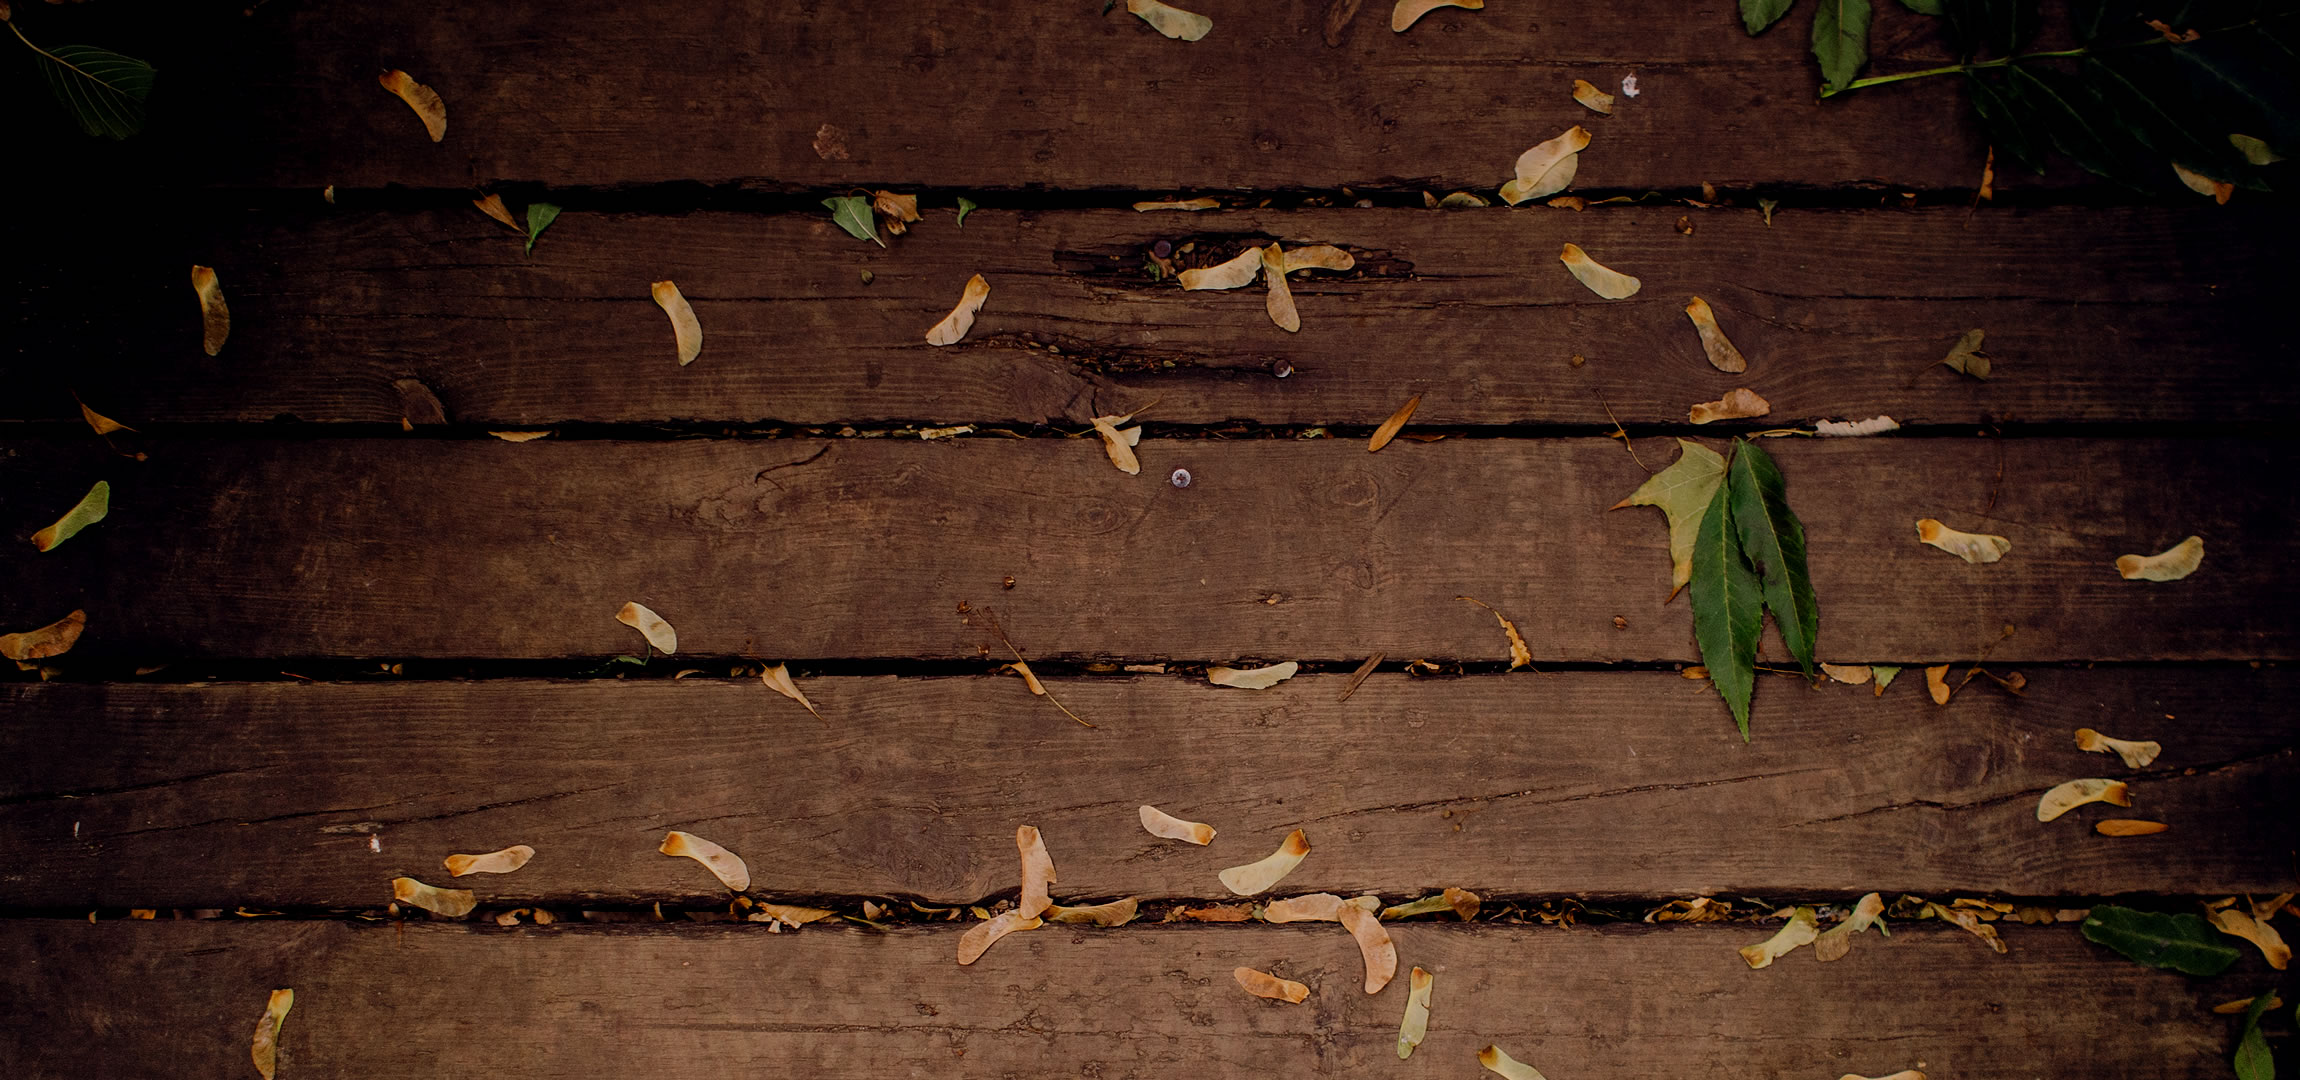
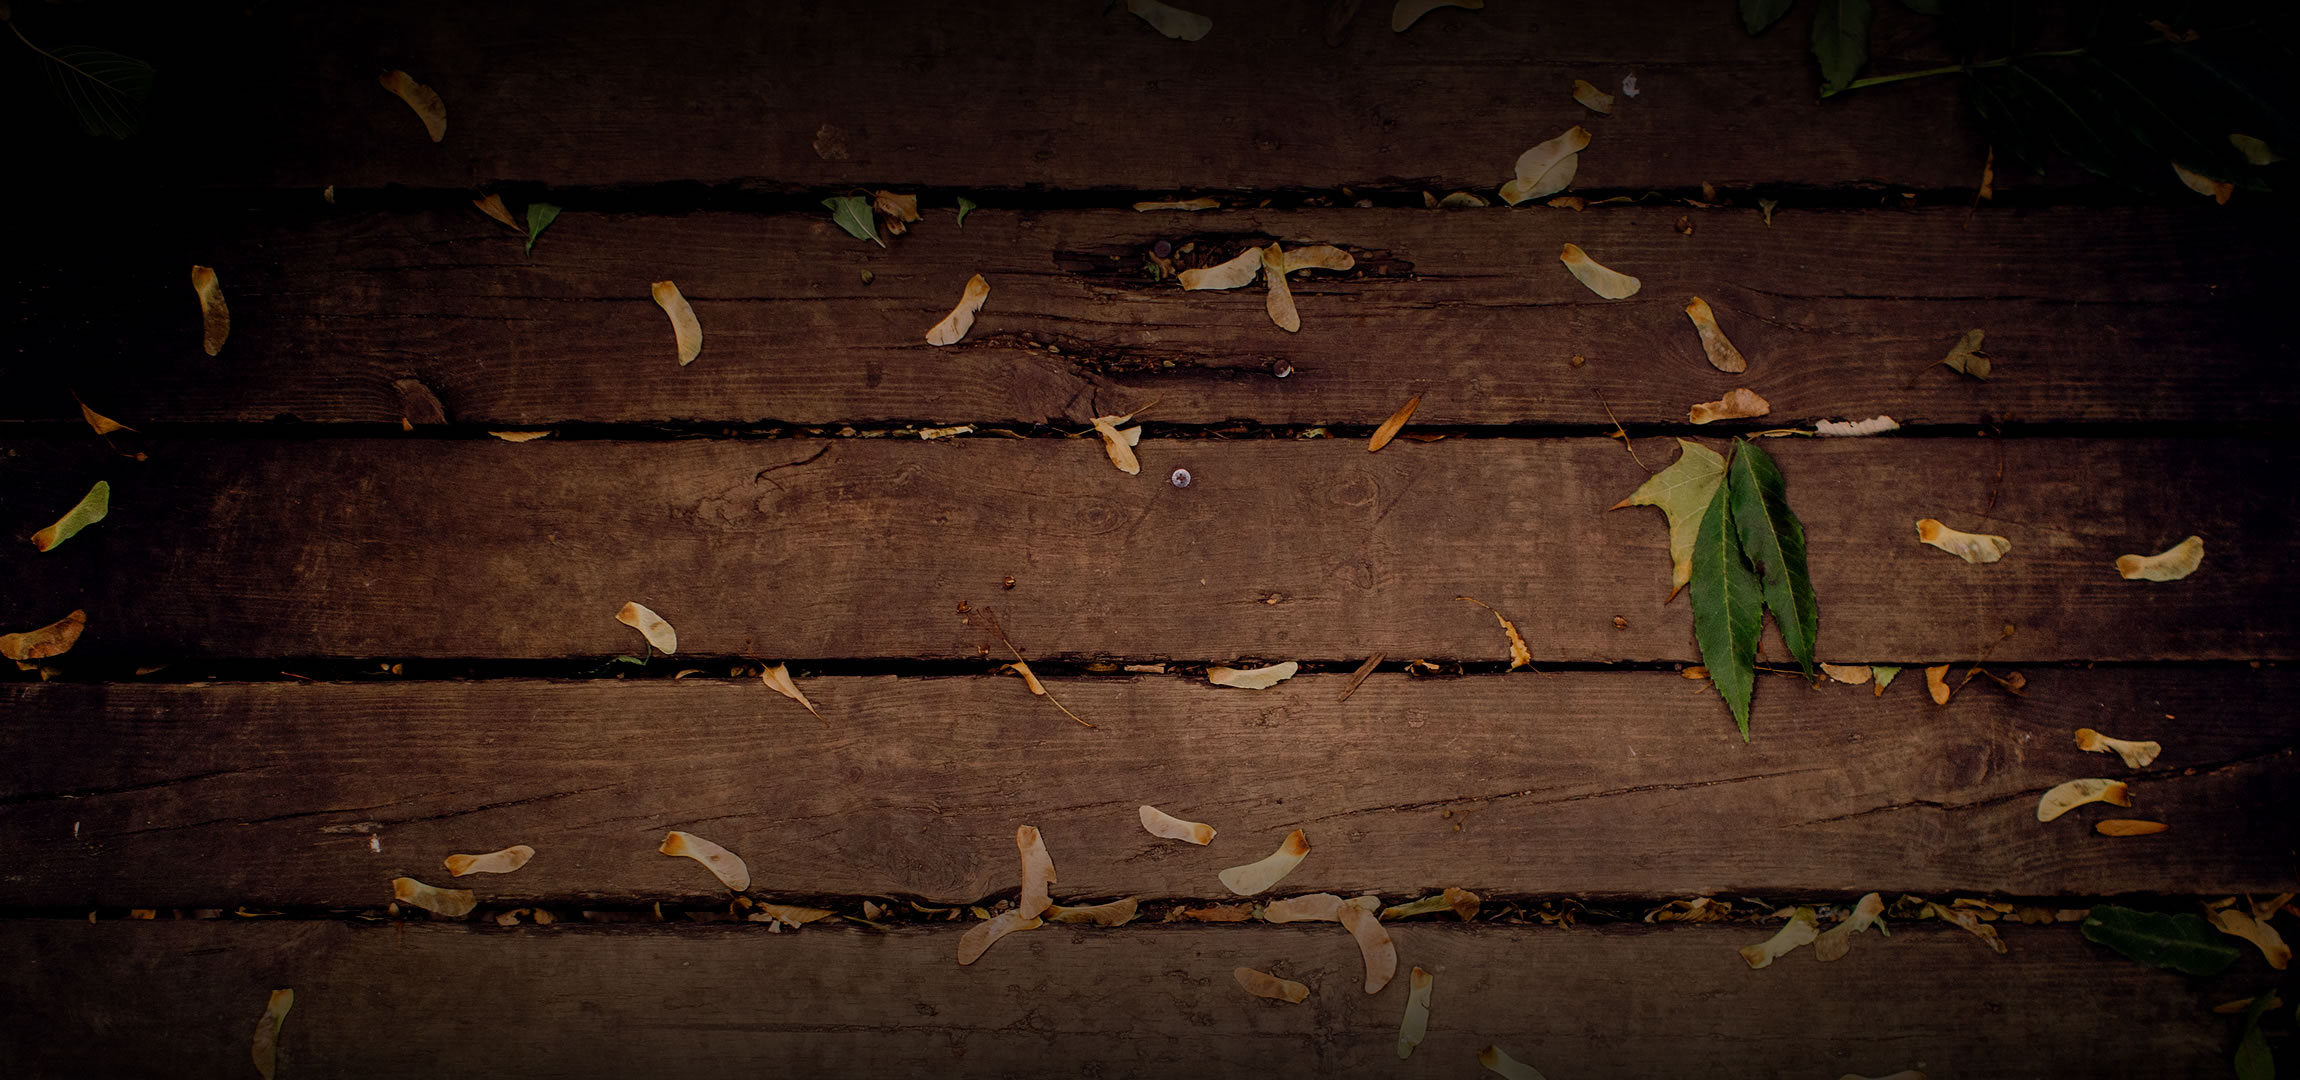
asd

diff --git a/authorization.html b/authorization.html
@@ -1,0 +1,71 @@
+<!DOCTYPE html>
+<html>
+	<head>
+        <title>Барис-Онлайн</title>
+        <meta http-equiv="Content-Type" content="text/html; charset=UTF-8">
+		<link href="my-style.css" rel="stylesheet" type="text/css">
+		<link href="custom.css" rel="stylesheet" type="text/css">
+ 		<meta name="SKYPE_TOOLBAR" content="SKYPE_TOOLBAR_PARSER_COMPATIBLE" /> 
+    </head>
+	<body>
+		<div id="gp-container" class="bg-aut">
+			<div class="gp-layout-center clearfix">
+				<div class="fl-l info">
+					<p class="back"><a href="#">Вернуться назад</a></p>
+					<h1 class="title">Регистрация нового покупателя</h1>
+					<h3 class="sub-title">Вы уже зарегестрированны? Тогда просто войдите в свой профиль</h3>
+					<p class="helper"><i>Зарегистрируйтесь прямо сейчас и получите преимущества постоянного клиента.</i></p>
+					<div class="btn"><a href="#">Вход для покупателя</a></div>
+				</div>
+				<div class="fl-r">
+					<div class="form">
+						<div class="wrapper">
+							<h2 class="title">Регистрация покупателя</h2>
+							<p class="sub-title">Ваш номер телефона будет логином для входа на сайт. Мы вышлем на него бесплатное SMS сообщение с кодом активации.</p>
+							<div class="mb20">
+								<div class="clearfix head">
+									<p class="fl-l name">Номер телефона</p>
+									<a href="#" class="link-js fl-r">Зачем мне указывать номер?</a>
+								</div>
+								<input type="tel" placeholder="+7 (___) ___-__-__">
+								<p class="error">Вы не указали номер телефона</p>
+							</div>
+							<div class="mb30 btn grey"><a href="#">Выслать код активации</a></div>
+							<div class="mb20 code clearfix">
+								<div class="fl-l"><span>Введите код из SMS</span></div>
+								<div class="fl-r">
+									<input type="text">
+									<p class="error">Неверный код</p>
+								</div>
+							</div>
+							<div class="mb30">
+								<input id="cfirst" type="checkbox" name="first" hidden />
+								<label class="new" for="cfirst">Хотите получать новости о скидках и акциях с помощью SMS?</label>
+							</div>
+							<div class="mb40 btn red">
+								<a href="#"><span>Зарегистрироваться</span> <i>и приступить к покупкам</i></a>
+							</div>
+							<h3>Вход через социальные сети</h3>
+							<div class="soc">
+								<a href="#"><img src="/im/soc.jpg" alt=""></a>
+							</div>
+						</div>
+					</div>
+				</div>
+				<div class="clear mb50"></div>
+				<div class="gp-three-cols mb70">
+					<dl class="clearfix">
+						<dt class="first">Бесплатная доставка</br> при заказе от 500 руб.</dt>
+						<dt class="two">Оформление заказа</br> за 5 минут</dt>
+						<dt class="three">Доставка в удобное</br> для вас время</dt>
+					</dl>
+				</div>
+				<div class="text-center white">© Интернет-магазин «Барис-онлайн»</div>
+			</div>
+		</div>
+		<script type="text/javascript" src="/js/jquery-1.7.1.min.js"></script>
+		<script type="text/javascript" src="/js/jquery.bxSlider.min.js"></script>
+		<script type="text/javascript" src="/js/jquery.maskedinput.js"></script>
+		<script type="text/javascript" src="/js/site.js"></script>
+	</body>
+</html>

diff --git a/my-style.css b/my-style.css
@@ -2495,6 +2495,7 @@ filter: progid:DXImageTransform.Microsoft.gradient( startColorstr='#e53426', end
 
 
 .bg-reg {background: url(/im/bg-reg.jpg) no-repeat top center; background-attachment: fixed;}
+.bg-aut {background: url(/im/bg-aut.jpg) no-repeat top center; background-attachment: fixed;}
 
 #gp-container {position: relative;  min-height: 100%; height: auto !important; height: 100%; margin: 0 0 -105px 0; padding: 0;}
 html {height: 100%;}
